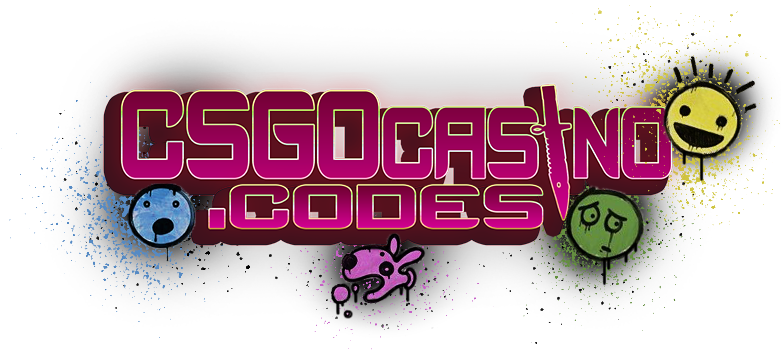
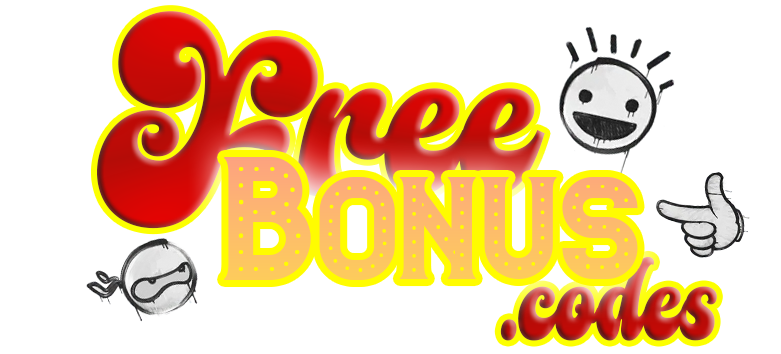
update 2.0
updated project removed restricted words

diff --git a/index.html b/index.html
@@ -9,16 +9,16 @@
 <meta http-equiv="Content-type" content="text/html;charset=UTF-8"/>	
 <meta name="google-site-verification" content="GTa0un2X9TeYcRtWxYo4FQAU_o21BDP-ngziN8Kp_34" />
 <meta name="viewport" content="width=device-width, initial-scale=1">
-<meta name="description" content="Earn money, win skins and build your Dream inventory now by using our free affiliate codes">
+<meta name="description" content="Earn money from our free affiliate codes, and shop with style">
 
 	
 <link href="https://fonts.googleapis.com/css?family=Tomorrow&display=swap" rel="stylesheet">
 <link href="style.css" rel="stylesheet" type="text/css">
 <link href= "icons/32x32.png" rel="shortcut icon"/>
-<link rel="canonical" href="https://csgocasino.codes"/>
+<link rel="canonical" href="https://freebonus.codes"/>
 
 	
-<title>CSGOCasino.codes - Betting Affiliate Codes!</title>
+<title>FreeBonus.codes - Affiliate Codes for everything!</title>
 </head>
 
 <body>
@@ -29,10 +29,10 @@
   
   <!-- SECTION -->
   <div id="etu">
-    <h1>Welcome to CSGOCasino.codes!</h1>
+    <h1>Welcome to FreeBonus.codes!</h1>
     
-  <h2>Here you can find all the top betting sites in the market. These sites are tested for you by CSGOCasino.codes.</h2><br>
-      Try your luck for free and build your Dream inventory now by using our free affiliate codes below!
+  <h2>Here you can find everything you need. These websites are tested for you by FreeBonus.codes.</h2><br>
+  Save money with our free affiliate codes, and shop everything with style!
 	  
   </div>
   <div id="top4">TOP SITES of <span id="top-sites"></span> </div>
@@ -42,21 +42,21 @@
       <div class="line"></div>
       <div class="bonus">BONUS</div>
       <div class="code">Your code!</div>
-      <div class="button">★ Play now! ★</div>
+      <div class="button">★ Enter site! ★</div>
     </div>
 	  <div class="sitered" onclick="window.open('https://www.google.com');" style="cursor:pointer;"> <a>Website #2</a>
       <div class="logo"><img src="avatars/2.png" width="200" height="60" alt="test site!"></div>
       <div class="line"></div>
       <div class="bonus">BONUS</div>
       <div class="code">Your code!</div>
-      <div class="button">Play now</div>
+      <div class="button">Enter site</div>
     </div>
 	   	      <div class="sitepink" onclick="window.open('https://www.google.com');" style="cursor:pointer;"> <a>Website #3</a>
       <div class="logo"><img src="avatars/3.png" width="200" height="60" alt="test site!"></div>
       <div class="line"></div>
       <div class="bonus">BONUS</div>
       <div class="code">Your code!</div>
-      <div class="button">Play now</div>
+      <div class="button">Enter site</div>
     </div>
     <div class="sitegold" onclick="window.open('mailto:your.email@csgocasino.codes');" style="cursor:pointer;"> <a href="http://csgocasino.codes">Your site here?</a>
       <div class="logo"><img src="avatars/add.png" width="200" height="60" alt="Your Site"></div>
@@ -73,28 +73,28 @@
       <div class="line"></div>
       <div class="bonus">BONUS</div>
       <div class="code">Your code!</div>
-      <div class="button">Play now</div>
+      <div class="button">Enter site</div>
     </div>
 	  	  <div class="site" onclick="window.open('https://www.google.com');" style="cursor:pointer;"> <a>Website #6</a>
       <div class="logo"><img src="avatars/6.png" width="200" height="60" alt="test site!"></div>
       <div class="line"></div>
       <div class="bonus">BONUS</div>
       <div class="code">Your code!</div>
-      <div class="button">Play now</div>
+      <div class="button">Enter site</div>
     </div>
 	  	  	  <div class="site" onclick="window.open('https://www.google.com');" style="cursor:pointer;"> <a>Website #7</a>
       <div class="logo"><img src="avatars/7.png" width="200" height="60" alt="test site!""></div>
       <div class="line"></div>
       <div class="bonus">BONUS</div>
       <div class="code">Your code!</div>
-      <div class="button">Play now</div>
+      <div class="button">Enter site</div>
     </div>
 	  <div class="site" onclick="window.open('https://www.google.com');" style="cursor:pointer;"> <a>Website #8</a>
       <div class="logo"><img src="avatars/8.png" width="200" height="60" alt="test site!"></div>
       <div class="line"></div>
       <div class="bonus">BONUS</div>
       <div class="code">Your code!</div>
-      <div class="button">Play now</div>
+      <div class="button">Enter site</div>
     </div>
 	  	    
     <div class="line2"></div>
@@ -104,92 +104,92 @@
       <div class="line"></div>
       <div class="bonus">BONUS</div>
       <div class="code">Your code!</div>
-      <div class="button">Play now</div>
+      <div class="button">Enter site</div>
     </div>
 	    <div class="site" onclick="window.open('https://www.google.com');" style="cursor:pointer;"> <a>Website #10</a>
       <div class="logo"><img src="avatars/10.png" width="200" height="60" alt="test site!"></div>
       <div class="line"></div>
       <div class="bonus">BONUS</div>
       <div class="code">Your code!</div>
-      <div class="button">Play now</div>
+      <div class="button">Enter site</div>
     </div>
     <div class="site" onclick="window.open('https://www.google.com');" style="cursor:pointer;"> <a>Website #11</a>
       <div class="logo"><img src="avatars/11.png" width="200" height="60" alt="test site!"></div>
       <div class="line"></div>
       <div class="bonus">BONUS</div>
       <div class="code">Your code!</div>
-      <div class="button">Play now</div>
+      <div class="button">Enter site</div>
     </div>	  
 	      <div class="site" onclick="window.open('https://www.google.com');" style="cursor:pointer;"> <a>Website #12</a>
       <div class="logo"><img src="avatars/12.png" width="200" height="60" alt="test site!"></div>
       <div class="line"></div>
       <div class="bonus">BONUS</div>
       <div class="code">Your code!</div>
-      <div class="button">Play now</div>
+      <div class="button">Enter site</div>
     </div> 
 	  	  <div class="site" onclick="window.open('https://www.google.com');" style="cursor:pointer;"> <a>Website #13</a>
       <div class="logo"><img src="avatars/13.png" width="200" height="60" alt="test site!"></div>
       <div class="line"></div>
       <div class="bonus">BONUS</div>
       <div class="code">Your code!</div>
-      <div class="button">Play now</div>
+      <div class="button">Enter site</div>
     </div>
     <div class="site" onclick="window.open('https://www.google.com');" style="cursor:pointer;"> <a>Website #14</a>
       <div class="logo"><img src="avatars/14.png" width="200" height="60" alt="test site!" ></div>
       <div class="line"></div>
       <div class="bonus">BONUS</div>
       <div class="code">Your code!</div>
-      <div class="button">Play now</div>
+      <div class="button">Enter site</div>
     </div>
     <div class="site" onclick="window.open('https://www.google.com');" style="cursor:pointer;"> <a>Website #15</a>
       <div class="logo"><img src="avatars/15.png" width="200" height="60" alt="test site!" ></div>
       <div class="line"></div>
       <div class="bonus">BONUS</div>
       <div class="code">Your code!</div>
-      <div class="button">Play now</div>
+      <div class="button">Enter site</div>
     </div>
     <div class="site" onclick="window.open('https://www.google.com');" style="cursor:pointer;"> <a>Website #16</a>
       <div class="logo"><img src="avatars/16.png" width="200" height="60" alt="test site!"" ></div>
       <div class="line"></div>
       <div class="bonus">BONUS</div>
       <div class="code">Your code!</div>
-      <div class="button">Play now</div>
+      <div class="button">Enter site</div>
     </div>
     <div class="site" onclick="window.open('https://www.google.com');" style="cursor:pointer;"> <a>Website #17</a>
       <div class="logo"><img src="avatars/17.png" width="200" height="60" alt="test site!"></div>
       <div class="line"></div>
       <div class="bonus">BONUS</div>
       <div class="code">Your code!</div>
-      <div class="button">Play now</div>
+      <div class="button">Enter site</div>
     </div>
     <div class="site" onclick="window.open('https://www.google.com');" style="cursor:pointer;"> <a>Website #18</a>
       <div class="logo"><img src="avatars/18.png" width="200" height="60" alt="test site!" ></div>
       <div class="line"></div>
       <div class="bonus">BONUS</div>
       <div class="code">Your code!</div>
-      <div class="button">Play now</div>
+      <div class="button">Enter site</div>
     </div>
     <div class="site" onclick="window.open('https://www.google.com');" style="cursor:pointer;"> <a>Website #19</a>
       <div class="logo"><img src="avatars/19.png" width="200" height="60" alt="test site!" ></div>
       <div class="line"></div>
       <div class="bonus">BONUS</div>
       <div class="code">Your code!</div>
-      <div class="button">Play now</div>
+      <div class="button">Enter site</div>
     </div>
     <div class="site" onclick="window.open('https://www.google.com');" style="cursor:pointer;"> <a>Website #20</a>
       <div class="logo"><img src="avatars/20.png" width="200" height="60" alt="test site!"></div>
       <div class="line"></div>
       <div class="bonus">BONUS</div>
       <div class="code">Your code!</div>
-      <div class="button">Play now</div>
+      <div class="button">Enter site</div>
     </div>
   </div>
   
   <!-- footer  -->
   
-  <div id="footer">If you have any questions, suggestions or complaints regarding the use of our website, please address the issue here: <a href="mailto:your.email@csgocasino.codes" class="2" style="cursor:pointer;">your.email@csgocasino.codes </a><br>
+  <div id="footer">If you have any questions, suggestions or complaints regarding the use of our website, please address the issue here: <a href="mailto:your.email@freebonus.codes" class="2" style="cursor:pointer;">your.email@FREEBonus.codes </a><br>
     <br>
-    CSGOCasino.codes Copyright © <span id="copyright-year"></span>. CSGOCasino.codes is not associated with Valve Corporation.
+    FREEBonus.codes Copyright © <span id="copyright-year"></span>. FREEBonus.codes is not associated with Valve Corporation, Facebook, or anyone.
                     <script>
                         document.querySelector('#copyright-year').innerText = new Date().getFullYear();
 						document.querySelector('#newest-sites').innerText = new Date().getFullYear();

diff --git a/style.css b/style.css
@@ -100,7 +100,7 @@ a.url {
 
 	#banner {
         width: 100%;
-	height: 300px;
+	height: 354px;
 	margin-bottom: 20px;
 	background-position: center;
 	margin:0 auto;
